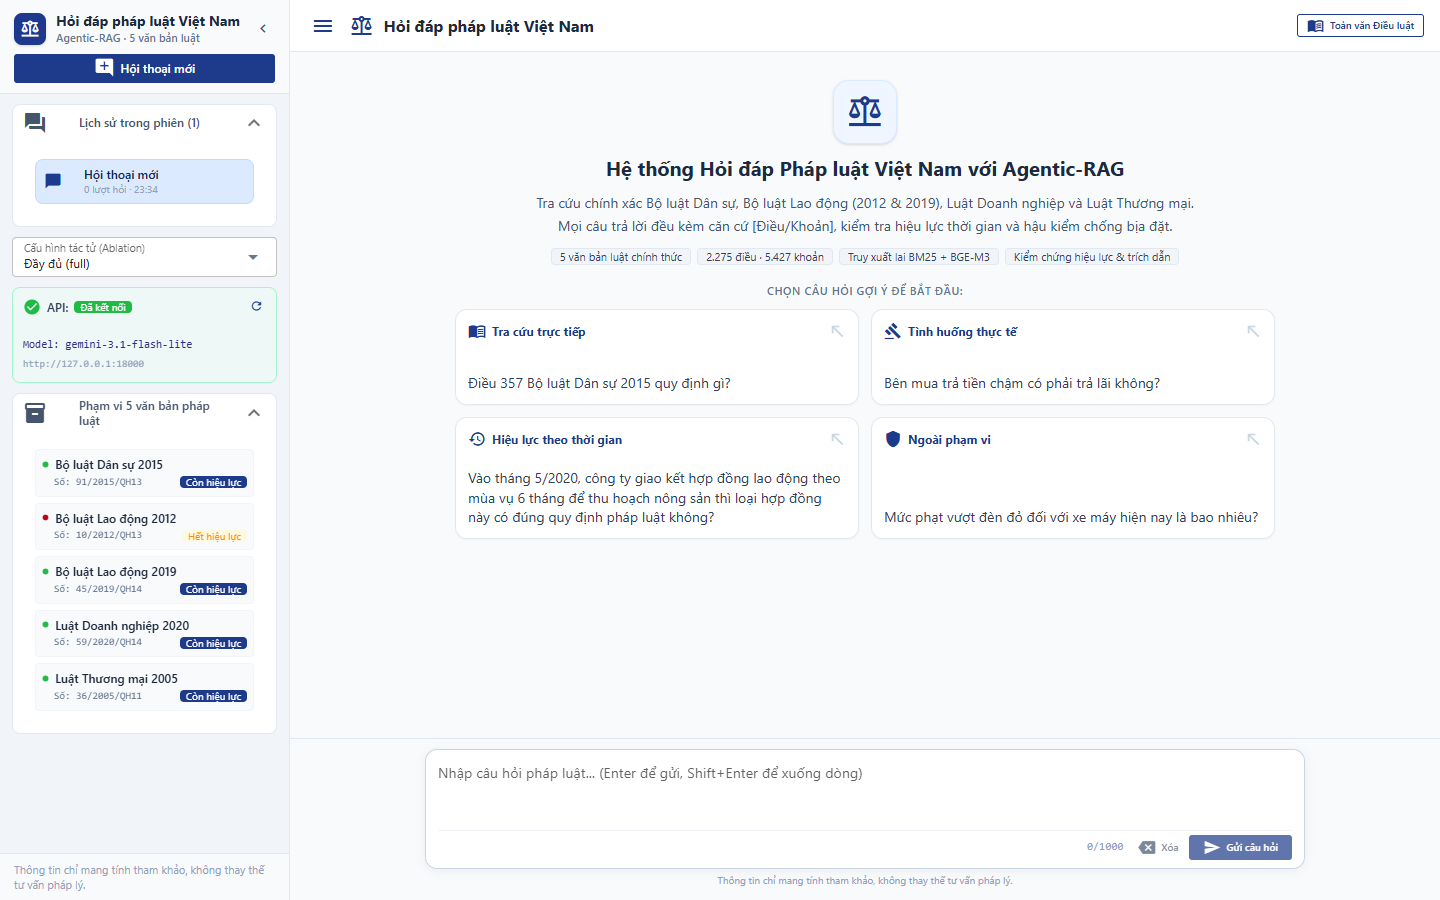
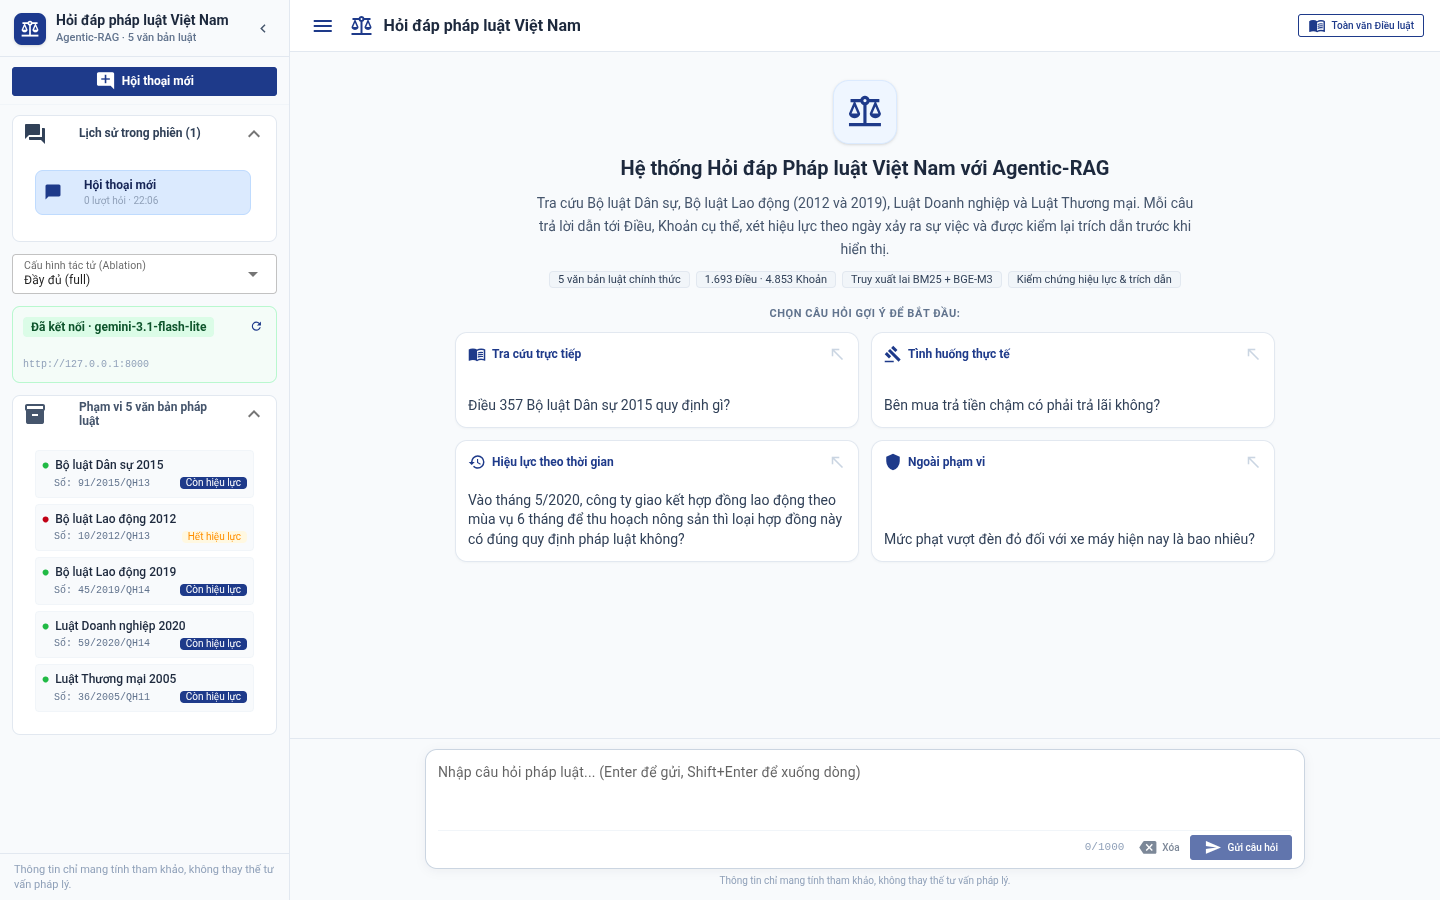
fix(ui): real corpus counts and a fallback status label

diff --git a/src/ui/web/pages/chat.py b/src/ui/web/pages/chat.py
@@ -16,7 +16,7 @@ from src.ui.web.api.schemas import ArticleResponse, CitationItem
 from src.ui.web.components import sidebar
 from src.ui.web.components.chat_message import Turn, format_turn_for_copy, render_turn
 from src.ui.web.components.citation_card import article_panel, copy_text
-from src.ui.web.config import DISCLAIMER, MAX_QUESTION, SAMPLE_QUESTIONS, STATIC_DIR
+from src.ui.web.config import CORPUS_STATS, DISCLAIMER, MAX_QUESTION, SAMPLE_QUESTIONS, STATIC_DIR
 
 SAMPLE_ICONS: dict[str, str] = {
     "Tra cứu trực tiếp": "menu_book",
@@ -24,6 +24,13 @@ SAMPLE_ICONS: dict[str, str] = {
     "Hiệu lực theo thời gian": "history",
     "Ngoài phạm vi": "shield",
 }
+
+
+def _vn_int(n: int) -> str:
+    return f"{n:,}".replace(",", ".")
+
+
+CORPUS_LABEL = f"{_vn_int(CORPUS_STATS[0])} Điều · {_vn_int(CORPUS_STATS[1])} Khoản"
 
 
 @dataclass
@@ -65,6 +72,7 @@ class PageState:
     started: float = 0.0
     elapsed: float = 0.0
     api_ok: bool | None = None
+    api_fallback: bool = False  # lượt gọi gần nhất chạy bằng dữ liệu dự phòng (chỉ BM25)
     api_model: str = ""
     api_error: str = ""
     api_hint: str = ""
@@ -180,6 +188,7 @@ async def chat_page(api: LegalQAApiClient) -> None:
             state.api_ok, state.api_model, state.api_error, state.api_hint = True, health.model, "", ""
         except ApiClientError as e:
             state.api_ok, state.api_error, state.api_hint = False, e.message, e.hint
+        state.api_fallback = api.using_fallback
         sidebar_api_view.refresh()
         banner_view.refresh()
 
@@ -215,6 +224,7 @@ async def chat_page(api: LegalQAApiClient) -> None:
         scroll_messages(force=True)
         try:
             turn.response = await api.ask(turn.question, turn.config)
+            turn.fallback = api.using_fallback
             if state.api_ok is not True:
                 state.api_ok, state.api_error, state.api_hint = True, "", ""
                 banner_view.refresh()
@@ -226,6 +236,9 @@ async def chat_page(api: LegalQAApiClient) -> None:
                 banner_view.refresh()
         finally:
             state.busy = False
+            # API có thể tắt hoặc sống lại giữa phiên: trạng thái theo lượt gọi vừa xong
+            state.api_fallback = api.using_fallback
+            sidebar_api_view.refresh()
             state.current.updated_at = datetime.now()
             sync_composer_state()
             chat_view.refresh()
@@ -418,7 +431,7 @@ async def chat_page(api: LegalQAApiClient) -> None:
                                         with ui.row().classes("items-center gap-2 text-red-900"):
                                             ui.icon("cloud_off", color="negative", size="sm")
                                             with ui.column().classes("gap-0"):
-                                                ui.label("Chưa kết nối được máy chủ FastAPI Backend").classes(
+                                                ui.label("Chưa kết nối được máy chủ hỏi đáp").classes(
                                                     "text-sm font-semibold"
                                                 )
                                                 ui.label(
@@ -444,14 +457,15 @@ async def chat_page(api: LegalQAApiClient) -> None:
                                         "text-lg md:text-xl font-bold text-slate-800"
                                     )
                                     ui.label(
-                                        "Tra cứu chính xác Bộ luật Dân sự, Bộ luật Lao động (2012 & 2019), Luật Doanh nghiệp và Luật Thương mại. "
-                                        "Mọi câu trả lời đều kèm căn cứ [Điều/Khoản], kiểm tra hiệu lực thời gian và hậu kiểm chống bịa đặt."
+                                        "Tra cứu Bộ luật Dân sự, Bộ luật Lao động (2012 và 2019), Luật Doanh nghiệp và Luật Thương mại. "
+                                        "Mỗi câu trả lời dẫn tới Điều, Khoản cụ thể, xét hiệu lực theo ngày xảy ra sự việc "
+                                        "và được kiểm lại trích dẫn trước khi hiển thị."
                                     ).classes("text-xs md:text-sm text-slate-600 max-w-2xl leading-relaxed")
 
                                     with ui.row().classes("items-center gap-1.5 flex-wrap justify-center"):
                                         for badge_text in [
                                             "5 văn bản luật chính thức",
-                                            "2.275 điều · 5.427 khoản",
+                                            CORPUS_LABEL,
                                             "Truy xuất lai BM25 + BGE-M3",
                                             "Kiểm chứng hiệu lực & trích dẫn",
                                         ]:

diff --git a/src/ui/web/components/sidebar.py b/src/ui/web/components/sidebar.py
@@ -101,36 +101,43 @@ def config_select(state) -> None:
     ).classes("w-full text-xs")
 
 
+def connection_status(state) -> tuple[str, str]:
+    """Nhãn trạng thái máy chủ và tông màu ("pending" | "ok" | "fallback" | "error") theo PageState."""
+    if state.api_ok is None:
+        return ("Đang kiểm tra kết nối…", "pending")
+    if not state.api_ok:
+        return ("Mất kết nối máy chủ", "error")
+    # Dự phòng cục bộ vẫn trả lời được nhưng chỉ truy xuất BM25: không được báo như máy chủ thật
+    if state.api_fallback:
+        return ("Dự phòng: chỉ BM25", "fallback")
+    return ("Đã kết nối" + (f" · {state.api_model}" if state.api_model else ""), "ok")
+
+
+_TONE_CLASSES = {
+    "pending": "text-slate-700 bg-slate-100",
+    "ok": "text-green-900 bg-green-100",
+    "fallback": "text-amber-900 bg-amber-100",
+    "error": "text-red-900 bg-red-100",
+}
+
+
 def api_status(state, on_check: Callable[[], Awaitable[None]]) -> None:
     """Card trạng thái API gọn gàng, không chiếm nhiều diện tích dọc."""
-    border_cls = (
-        "border-emerald-200 bg-emerald-50/50"
-        if state.api_ok is True
-        else ("border-red-200 bg-red-50/60" if state.api_ok is False else "border-slate-200 bg-white")
-    )
+    label, tone = connection_status(state)
+    border_cls = {
+        "ok": "border-green-200 bg-green-50/50",
+        "fallback": "border-amber-200 bg-amber-50/60",
+        "error": "border-red-200 bg-red-50/60",
+    }.get(tone, "border-slate-200 bg-white")
     with ui.card().classes(f"w-full shadow-none border p-2.5 rounded-lg min-w-0 {border_cls}"):
         with ui.row().classes("items-center justify-between w-full no-wrap gap-1"):
-            with ui.row().classes("items-center gap-1.5 min-w-0 no-wrap"):
-                ui.icon(
-                    "check_circle" if state.api_ok is True else ("error" if state.api_ok is False else "sync"),
-                    size="xs",
-                    color="positive" if state.api_ok is True else ("negative" if state.api_ok is False else "primary"),
-                )
-                ui.label("API:").classes("text-xs font-semibold text-slate-700 shrink-0")
-                if state.api_ok is None:
-                    ui.label("Đang kiểm tra...").classes("text-xs text-slate-500 truncate")
-                elif state.api_ok:
-                    ui.badge("Đã kết nối", color="positive").classes("text-[10px] px-1.5 py-0")
-                else:
-                    ui.badge("Mất kết nối", color="negative").classes("text-[10px] px-1.5 py-0")
+            ui.label(label).classes(f"text-xs font-semibold px-2 py-0.5 rounded truncate {_TONE_CLASSES[tone]}")
             ui.button(icon="refresh", on_click=on_check).props(
                 "flat round dense size=xs color=primary"
             ).tooltip("Kiểm tra lại kết nối API")
 
         with ui.row().classes("items-center justify-between w-full gap-1 mt-1 text-[11px] text-slate-500 min-w-0"):
-            if state.api_ok and state.api_model:
-                ui.label(f"Model: {state.api_model}").classes("font-mono text-[11px] text-indigo-900 truncate")
-            elif state.api_ok is False and state.api_error:
+            if state.api_ok is False and state.api_error:
                 ui.label(state.api_error).classes("text-[11px] text-red-700 leading-tight")
             ui.label(state.api_url).classes("text-[10px] text-slate-400 font-mono truncate max-w-full")
 

diff --git a/tests/test_nicegui_web.py b/tests/test_nicegui_web.py
@@ -20,6 +20,7 @@ from __future__ import annotations
 
 import asyncio
 from contextlib import asynccontextmanager
+from pathlib import Path
 from types import SimpleNamespace
 import unittest
 
@@ -33,8 +34,9 @@ from src.ui.web.api.schemas import AskResponse
 from src.ui.web.components.agent_timeline import step_note
 from src.ui.web.components.chat_message import Turn, answer_markdown, format_turn_for_copy
 from src.ui.web.components.citation_card import citation_label, law_of
+from src.ui.web.components.sidebar import connection_status
 from src.ui.web.components.validity_card import _fmt, cited_laws
-from src.ui.web.config import AGENT_CONFIGS, LAWS_CATALOG, NO_BASIS, SAMPLE_QUESTIONS, STATIC_DIR
+from src.ui.web.config import AGENT_CONFIGS, LAWS_CATALOG, NO_BASIS, SAMPLE_QUESTIONS, STATIC_DIR, corpus_stats
 from src.ui.web.pages.chat import Conversation, PageState, chat_page
 
 C1 = "BLDS2015_Dieu357_Khoan1"
@@ -139,7 +141,9 @@ class TestNiceGUIWebIntegration(unittest.IsolatedAsyncioTestCase):
             await api.health()
         self.assertIn("Không kết nối được API", ctx_health.exception.message)
         self.assertEqual(ctx_health.exception.kind, "network")
-        self.assertIn("uvicorn", ctx_health.exception.hint)
+        # người dùng thường không chạy lệnh: gợi ý chỉ sang README, không in lệnh uvicorn
+        self.assertNotIn("uvicorn", ctx_health.exception.hint)
+        self.assertIn("README", ctx_health.exception.hint)
 
         with self.assertRaises(ApiClientError) as ctx_ask:
             await api.ask("Chậm trả tiền có phải trả lãi không?")
@@ -334,6 +338,35 @@ def test_index_turns_fallback_off_when_env_says_so(monkeypatch):
 def test_index_keeps_fallback_by_default(monkeypatch):
     monkeypatch.delenv("UI_LOCAL_FALLBACK", raising=False)
     assert _client_built_by_index(monkeypatch)._enable_local_fallback is True
+
+
+def test_connection_status_labels():
+    s = PageState(api_url="http://x")
+    assert connection_status(s) == ("Đang kiểm tra kết nối…", "pending")
+    s.api_ok, s.api_model = True, "gemini-3.1-flash-lite"
+    assert connection_status(s) == ("Đã kết nối · gemini-3.1-flash-lite", "ok")
+    s.api_fallback = True
+    assert connection_status(s) == ("Dự phòng: chỉ BM25", "fallback")
+    s.api_ok, s.api_fallback = False, False
+    assert connection_status(s) == ("Mất kết nối máy chủ", "error")
+
+
+def test_corpus_stats_matches_processed_files():
+    assert corpus_stats() == (1693, 4853)
+    assert corpus_stats(Path("/khong/ton/tai")) == (0, 0)
+
+
+def test_client_reports_fallback_and_recovers(monkeypatch):  # repo không có pytest-asyncio: chạy bằng asyncio.run
+    import src.ui.web.api.local_fallback as lf
+    monkeypatch.setattr(lf, "get_fallback_transport",
+        lambda: httpx.MockTransport(lambda r: httpx.Response(200, json={"status": "ok", "model": "local-bm25"})))
+    client = LegalQAApiClient(base_url="http://127.0.0.1:9", enable_local_fallback=True)
+    asyncio.run(client.health())
+    assert client.using_fallback is True
+    # API sống lại: lượt sau đi thẳng tới máy chủ, cờ dự phòng phải tắt
+    client._transport = httpx.MockTransport(lambda r: httpx.Response(200, json={"status": "ok", "model": "m"}))
+    asyncio.run(client.health())
+    assert client.using_fallback is False
 
 
 if __name__ == "__main__":

diff --git a/src/ui/web/api/client.py b/src/ui/web/api/client.py
@@ -11,6 +11,10 @@ from src.ui.web.api.schemas import ArticleResponse, AskResponse, HealthResponse
 from src.ui.web.config import API_URL, ARTICLE_TIMEOUT, ASK_TIMEOUT, HEALTH_TIMEOUT, MAX_QUESTION
 
 
+# Người dùng thường không tự chạy lệnh: chỉ báo tình trạng, lệnh khởi động nằm trong README
+NETWORK_HINT = "Máy chủ hỏi đáp chưa chạy hoặc không truy cập được. Người vận hành: xem README mục 1."
+
+
 class ApiClientError(Exception):
     """Lỗi gọi API, mang câu thông báo tiếng Việt thân thiện và phân loại lỗi để UI hiển thị."""
 
@@ -48,6 +52,11 @@ class LegalQAApiClient:
         self._using_fallback = False
         self._articles: dict[str, ArticleResponse] = {}
 
+    @property
+    def using_fallback(self) -> bool:
+        """True nếu lượt gọi gần nhất phải chạy bằng dữ liệu dự phòng cục bộ (không tới được máy chủ)."""
+        return self._using_fallback
+
     def _http(self, timeout: float, use_fallback: bool = False) -> httpx.AsyncClient:
         if use_fallback:
             from src.ui.web.api.local_fallback import get_fallback_transport
@@ -84,7 +93,7 @@ class LegalQAApiClient:
             raise ApiClientError(
                 f"Không kết nối được API tại {self.base_url}.",
                 kind="network",
-                hint="Hãy khởi động backend: uvicorn src.api.main:app --port 8000",
+                hint=NETWORK_HINT,
             ) from exc
         if resp.status_code != 200:
             raise ApiClientError(f"API trả mã {resp.status_code} ở /health.", resp.status_code, kind="server")
@@ -110,13 +119,13 @@ class LegalQAApiClient:
             raise ApiClientError(
                 "Máy chủ trả lời quá lâu. Vui lòng thử lại sau.",
                 kind="timeout",
-                hint="Tác tử LLM có thể đang giãn cách tốc độ gọi (RPM). Bạn có thể bấm 'Thử lại' ngay bên dưới.",
+                hint="Mô hình ngôn ngữ có thể đang bị giới hạn số lượt gọi. Bạn có thể bấm 'Thử lại' ngay bên dưới.",
             ) from exc
         except httpx.HTTPError as exc:
             raise ApiClientError(
-                "Không kết nối được máy chủ hỏi đáp. Kiểm tra API đã chạy chưa.",
+                "Không kết nối được máy chủ hỏi đáp.",
                 kind="network",
-                hint=f"Đảm bảo FastAPI đang chạy tại {self.base_url} (uvicorn src.api.main:app --port 8000).",
+                hint=NETWORK_HINT,
             ) from exc
         if resp.status_code == 422:
             raise ApiClientError("Câu hỏi không hợp lệ (rỗng hoặc dài quá 1000 ký tự).", 422, kind="validation")

diff --git a/src/ui/web/api/local_fallback.py b/src/ui/web/api/local_fallback.py
@@ -1,13 +1,13 @@
 """Tự động gắn FastAPI app nội cục (từ src/api/main.py:create_app) khi cổng 8000 chưa chạy.
 
 Khi người dùng chạy `python -m src.ui.web.main` mà `uvicorn src.api.main:app --port 8000` chưa bật
-(hoặc bị dừng tại `src/retrieval/retriever.py:118` do `chroma_db` mới nạp 2.240/5.427 chunk),
+(hoặc dừng ở `load_retriever` vì `chroma_db` chưa nạp đủ chunk),
 module này cung cấp instance FastAPI thật từ `create_app` sử dụng:
 1. Nếu `.env` đã có `LLM_API_KEY`: chạy `Agent` thật (`src/agent/run.py`) với `BM25Index` trên toàn bộ
-   5.427 khoản luật thật trong `data/processed/chunks.jsonl` (không bị chặn bởi kiểm tra `col.count() != 5427`).
+   4.853 khoản luật thật trong `data/processed/chunks.jsonl` (không cần ChromaDB).
 2. Nếu `.env` chưa có `LLM_API_KEY`: tra cứu trực tiếp trên 355 kết quả chạy thật của hệ thống trong
-   `eval/results/agent_rq3.jsonl`, `src/ui/samples/*.json` và truy xuất `BM25Index` trên 5.427 khoản luật thật.
-3. Toàn văn 2.275 Điều luật lấy trực tiếp từ `data/processed/chunks_article.jsonl`.
+   `eval/results/agent_rq3.jsonl`, `src/ui/samples/*.json` và truy xuất `BM25Index` trên 4.853 khoản luật thật.
+3. Toàn văn 1.693 Điều luật lấy trực tiếp từ `data/processed/chunks_article.jsonl`.
 """
 from __future__ import annotations
 

diff --git a/src/ui/web/components/chat_message.py b/src/ui/web/components/chat_message.py
@@ -26,6 +26,7 @@ class Turn:
     error: str | None = None
     error_hint: str = ""
     feedback: str | None = None  # "up" | "down" | None
+    fallback: bool = False  # câu trả lời sinh bằng dữ liệu dự phòng cục bộ (giữ theo lượt, không theo trang)
 
     @property
     def pending(self) -> bool:
@@ -116,7 +117,7 @@ def render_turn(
                             ui.label("Không thể hoàn tất yêu cầu").classes("font-semibold text-sm text-red-900")
                             ui.label(turn.error).classes("text-sm text-red-800")
                             if turn.error_hint:
-                                ui.label(turn.error_hint).classes("text-xs text-red-700 font-mono mt-0.5")
+                                ui.label(turn.error_hint).classes("text-xs text-red-700 mt-0.5")
                     if on_retry is not None:
                         with ui.row().classes("mt-2 justify-end"):
                             ui.button(

diff --git a/src/ui/web/config.py b/src/ui/web/config.py
@@ -106,3 +106,18 @@ def load_laws_catalog() -> dict[str, dict[str, Any]]:
 
 
 LAWS_CATALOG: dict[str, dict[str, Any]] = load_laws_catalog()
+
+
+def corpus_stats(processed_dir: Path = PROJECT_ROOT / "data" / "processed") -> tuple[int, int]:
+    """(số Điều, số Khoản) = số dòng chunks_article.jsonl, chunks.jsonl; (0, 0) nếu thiếu file."""
+    try:
+        dieu, khoan = (
+            sum(1 for line in (processed_dir / name).read_text(encoding="utf-8").splitlines() if line.strip())
+            for name in ("chunks_article.jsonl", "chunks.jsonl")
+        )
+    except OSError:
+        return (0, 0)
+    return (dieu, khoan)
+
+
+CORPUS_STATS: tuple[int, int] = corpus_stats()
